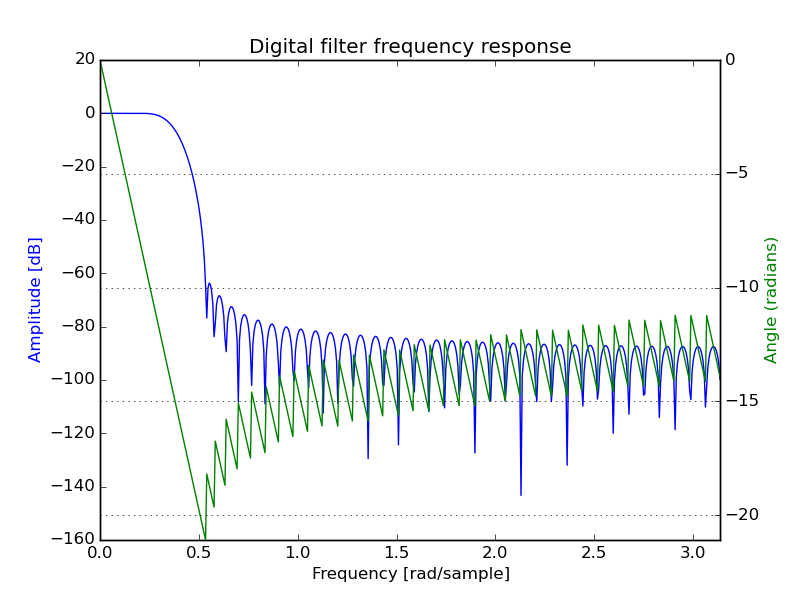
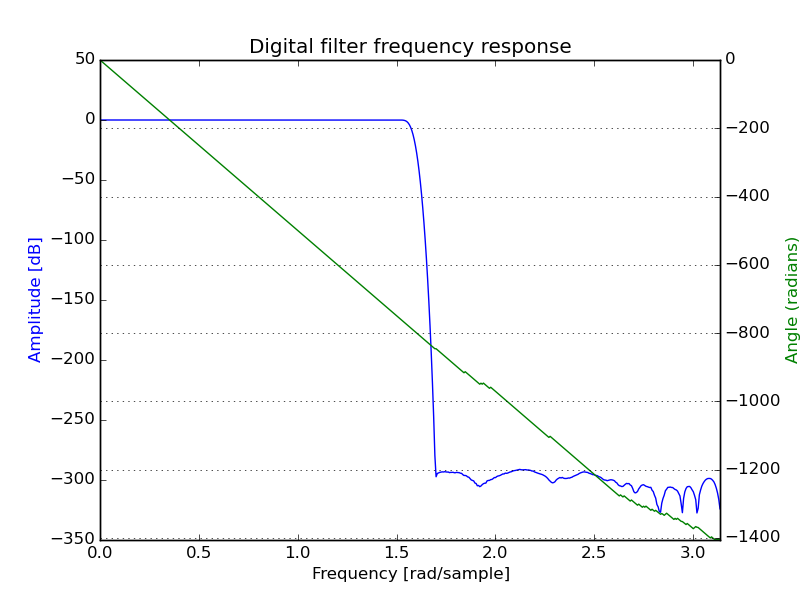
the children must not cheat

diff --git a/scripts/python/csv_parse.py b/scripts/python/csv_parse.py
@@ -49,7 +49,7 @@ plt.savefig('gyro_data.png')
 # Generate filter
 
 
-def filter_gen(Fs=25, Fc=12, transBand=4, numtaps=10):
+def filter_gen(Fs, Fc, transBand, numtaps):
     """ Generate a filter, with the given parameters. """
     import scipy.signal as ssig
 
@@ -83,10 +83,10 @@ def view_filter(b):
     plt.savefig('designed_filter.png')
 
 
-Fs = 100        # Sampling Rate
-Fc = 12         # Cutoff Frequency
-transBand = 10  # Width of transition band
-numtaps = 10    # Number of taps
+Fs = 1           # Sampling Rate
+Fc = 0.5         # Cutoff Frequency
+transBand = 0.1  # Width of transition band
+numtaps = 1000   # Number of taps
 
 b = filter_gen(Fs, Fc, transBand, numtaps)
 view_filter(b)
